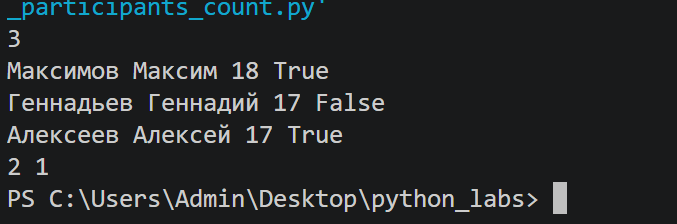
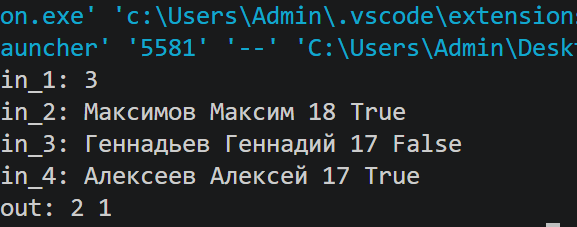
задание 6

diff --git a/src/lab01/06_participants_count.py b/src/lab01/06_participants_count.py
@@ -1,12 +1,12 @@
-p_count=int(input())
+p_count=int(input("in_1:"))
 och=0
 zaoch=0
 for i in range(p_count):
-    line=input()
+    line=input(f"in_{i+2}:")
     part_line=line.split()
     time=part_line[3]
     if time=='True':
         och+=1
     elif time=='False':
         zaoch+=1
-print(och,zaoch)
+print("out:",och,zaoch)
